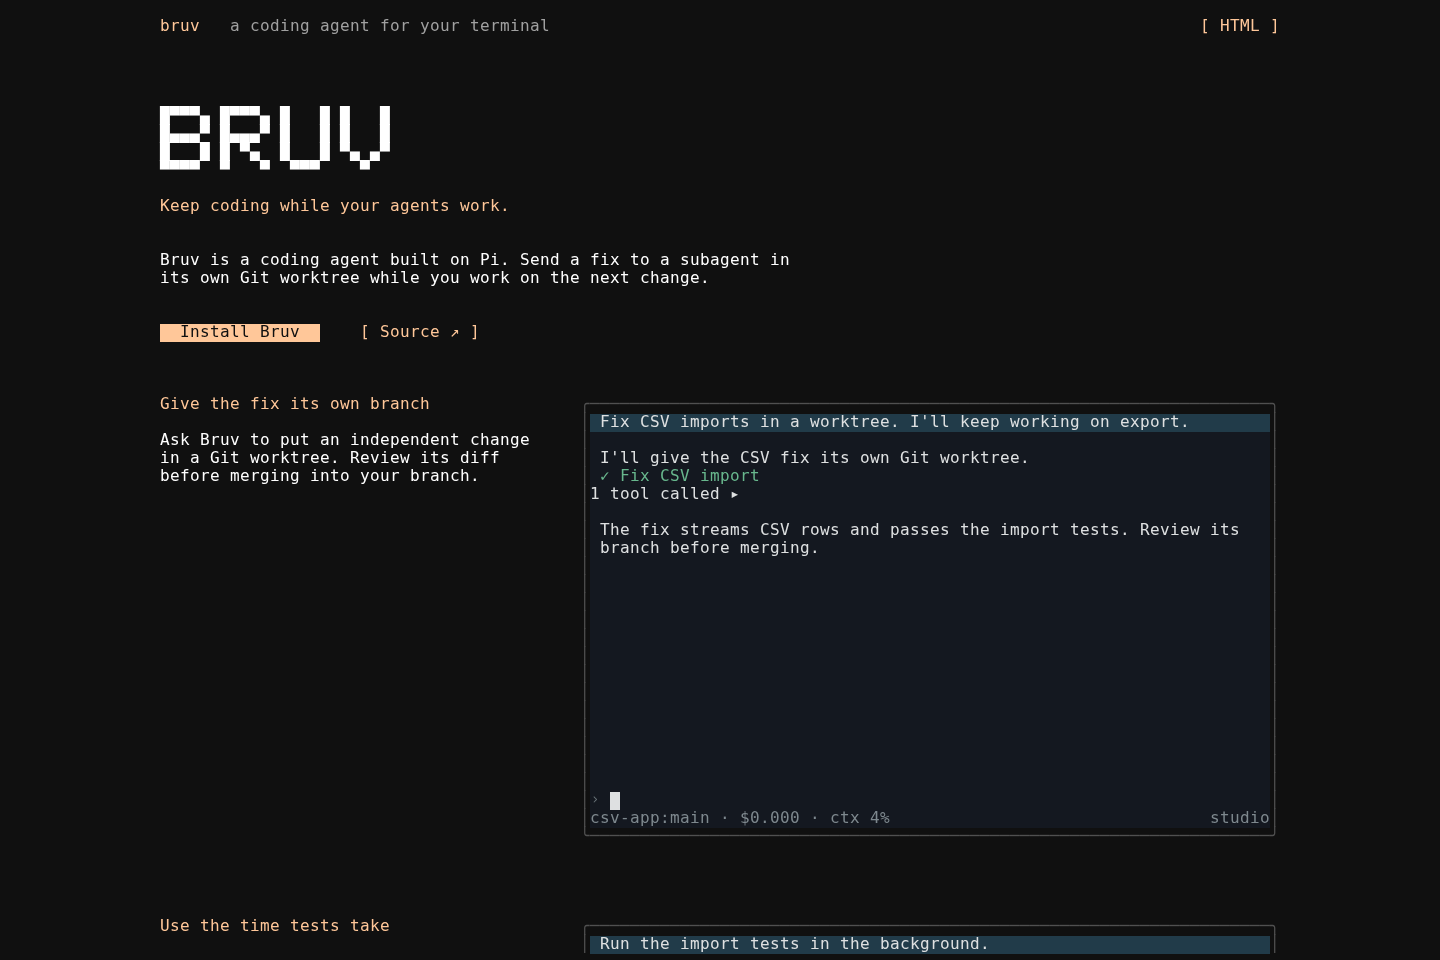
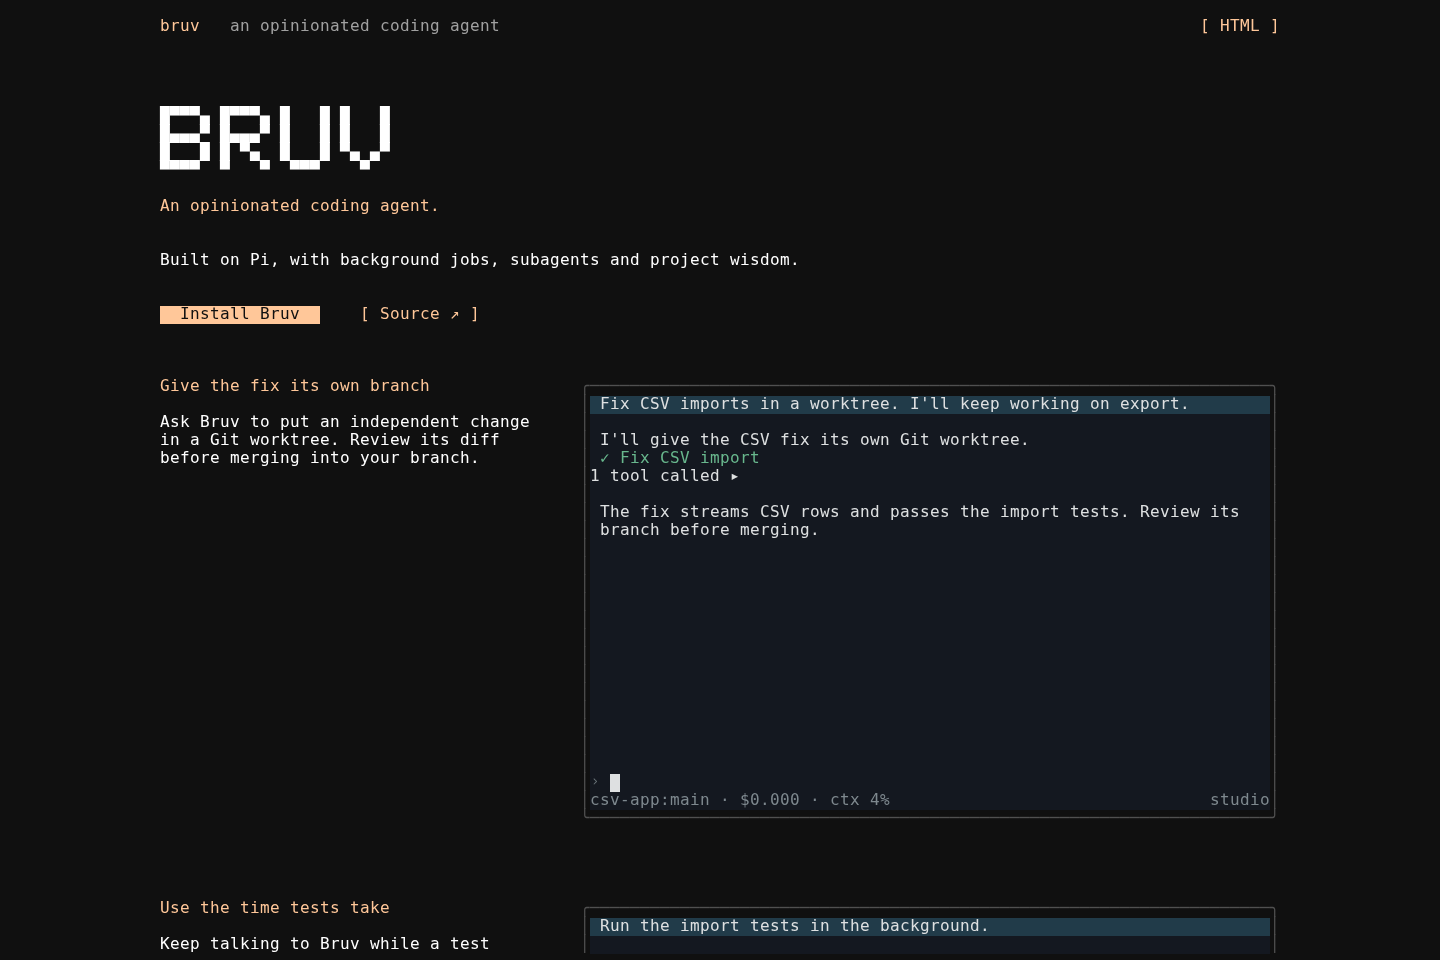
Record integrated installer checks and current preview

diff --git a/wisdom/landing-page/install-script.md b/wisdom/landing-page/install-script.md
@@ -29,3 +29,9 @@ Values reviewed: existing values for honest surfaces/proof, essential data-loss 
 Final checks: full site test command passed **30 tests**, plus real-browser cell/scroll/navigation validation (desktop 1,972 checked capture cells; mobile 390px 1,369; mobile 320px 1,044; touch/source/no-JS/startup pass; zero page errors). Final installer recheck passed after Android-x64 rejection was tightened. Focused TypeScript check uses ES2023 (existing demos use findLastIndex). sh -n, formatting and git diff --check pass.
 
 Handoff preview: **http://127.0.0.1:43941/**; script **http://127.0.0.1:43941/install.sh** returned 200 and byte-matched the worktree source. Preview job task_3477fc23 remains running. Parent preview 45339 was not stopped/restarted. Preview is not a production deployment.
+
+## Parent integration
+
+Integrated 90141a5d as ce7ba43b in /home/tnfssc/.bruv/worktrees/bruv-5442693331ce-task_0f2604c1, branch feat/landing-copy-loop-polish. Kept the full mobile BRUV glyphs and the user-corrected opinionated coding agent pitch. Current combined preview is http://127.0.0.1:45339/ (and text.html); installer is /install.sh. Superseded worker previews were cancelled, not restarted.
+
+18 focused tests passed after integration: page layout, installer fixtures/copy UI and delayed/failed/no-JS startup. Inspected integrated 390px hero and install screenshots. No live binary install executed. Values unchanged; existing installer safety and truthful evidence guidance apply.
